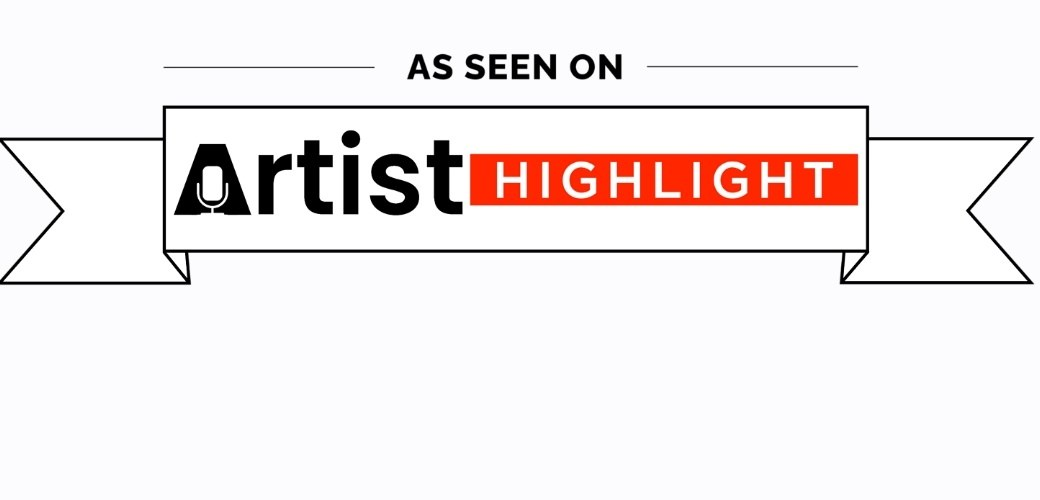
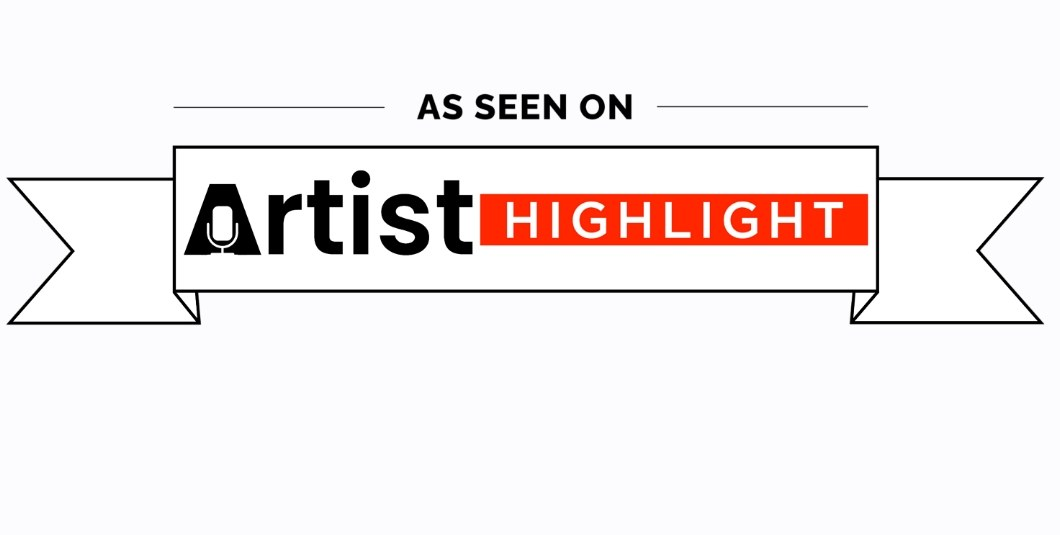
Replace badge with clean cropped version, center below bio
Uses the cleaner screenshot crop (1060×535) showing the full ribbon.
Badge is centred and sized to max 480px wide via style.css.

https://claude.ai/code/session_01XNz8MjEfpuLip4z7Y65ZJP

Changed region(s): [[0.0, 0.09, 1.0, 0.63], [0.1538, 0.12, 0.3385, 0.15]]

diff --git a/about.html b/about.html
@@ -141,7 +141,7 @@
         <a class="press-badge press-badge--img" href="https://artisthighlight.com/inside-the-meditative-worlds-of-jay-salton-redefining-digital-art-through-conscious-creativity/" target="_blank" rel="noopener noreferrer" aria-label="As seen on Artist Highlight — read the feature">
           <picture>
             <source srcset="assets/artist-highlight-badge.webp" type="image/webp" />
-            <img src="assets/artist-highlight-badge.jpg" alt="As seen on Artist Highlight" width="520" height="250" loading="lazy" />
+            <img src="assets/artist-highlight-badge.jpg" alt="As seen on Artist Highlight" width="1060" height="535" loading="lazy" />
           </picture>
         </a>
       </div>

diff --git a/style.css b/style.css
@@ -1116,7 +1116,9 @@ body {
   display: flex;
   flex-wrap: wrap;
   gap: 0.75rem;
-  margin-bottom: 2.5rem;
+  justify-content: center;
+  margin-top: 2.5rem;
+  margin-bottom: 0;
 }
 
 .press-badge {
@@ -1143,7 +1145,7 @@ body {
 
 .press-badge--img img {
   display: block;
-  width: 260px;
+  width: min(480px, 100%);
   height: auto;
   opacity: 0.90;
   transition: opacity var(--transition);
